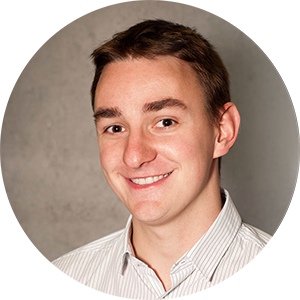
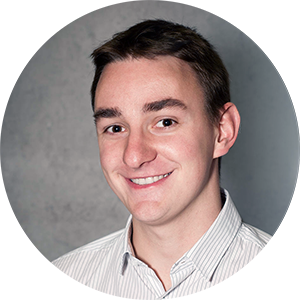
Changed the photo again

diff --git a/content/ich.html b/content/ich.html
@@ -1,4 +1,4 @@
 <p class="bigFont" style="float: left; margin-top: 15%; width: 670px;">Hi, ich bin <span style="color: black;">Moritz Göckel</span>, 21 Jahre alt und Student der Medieninformatik.<br />
     Mein Schwerpunkt ist die Software-Entwicklung.</p>
 
-<img src="content/me-rund.png" style="margin-top: 70px; margin-right: 110px; width: 300px; float: right;" alt="Moritz Goeckel"/>
+<img src="content/me-rund_2.png" style="margin-top: 70px; margin-right: 110px; width: 300px; float: right;" alt="Moritz Goeckel"/>
